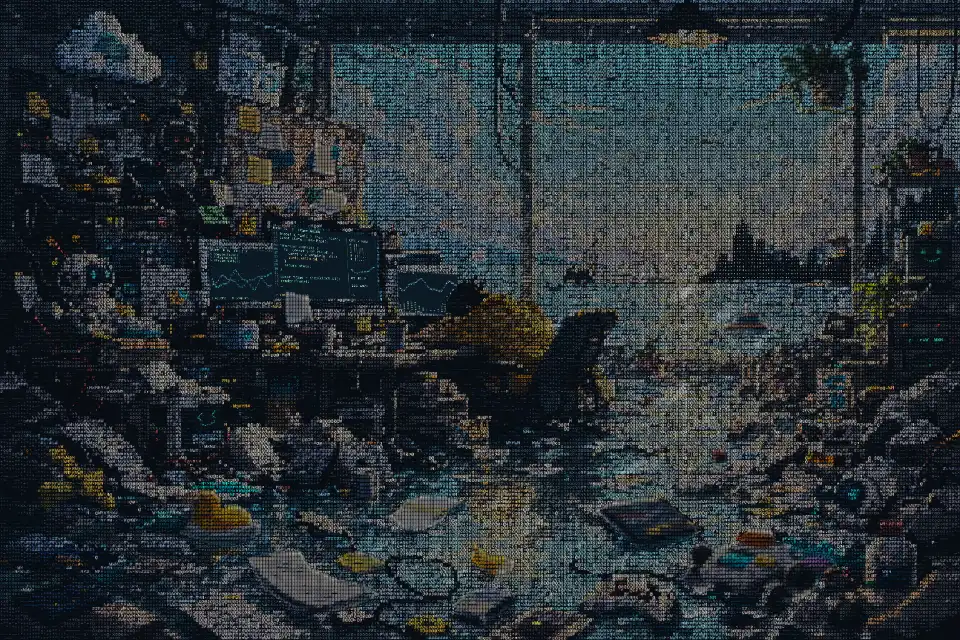
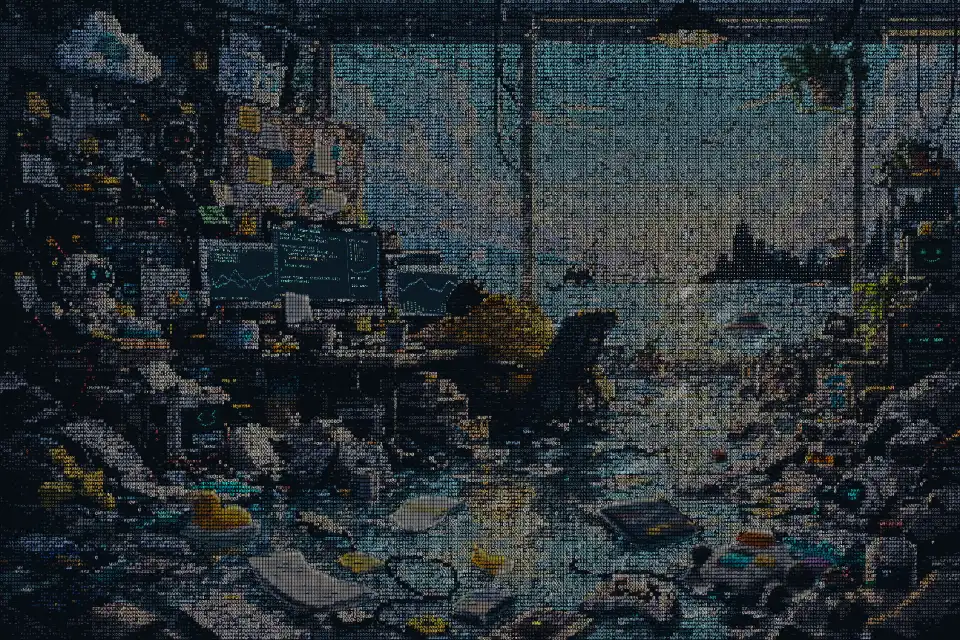
Leave stable negative space in dark room edges

diff --git a/ascii-renderer.js b/ascii-renderer.js
@@ -1,13 +1,13 @@
-import { scenePixelRatio } from './render-budget.js?v=20261111-space19';
+import { scenePixelRatio } from './render-budget.js?v=20261111-air20';
 import { createCanvas } from './canvas-factory.js?v=20261110-fps10';
 import { detailShapes, detailPoint, eyeOpening, cloudWindows, cloudSpeed, emitters } from './scene-details.js?v=20261110-depth6';
-import { GlyphAtlas } from './glyph-atlas.js?v=20261111-space19';
-import { screens, paintScreen } from './screen-content.js?v=20261111-space19';
+import { GlyphAtlas } from './glyph-atlas.js?v=20261111-air20';
+import { screens, paintScreen } from './screen-content.js?v=20261111-air20';
 import { faceLight, lampColor } from './scene-lights.js?v=20261110-depth6';
 import { quadPoint, drawQuad } from './scene-geometry.js?v=20261110-fps10';
-import { GlyphMotion } from './glyph-motion.js?v=20261111-space19';
-import { SpriteAtlas } from './sprite-atlas.js?v=20261111-space19';
-import { alternatives, prepareGlyph, glyphVariant } from './glyph-rhythm.js?v=20261111-space19';
+import { GlyphMotion } from './glyph-motion.js?v=20261111-air20';
+import { SpriteAtlas } from './sprite-atlas.js?v=20261111-air20';
+import { alternatives, prepareGlyph, glyphVariant } from './glyph-rhythm.js?v=20261111-air20';
 
 // Source-image coordinates keep motion, perspective and hit targets in agreement.
 export const birds = [
@@ -379,8 +379,20 @@ export class AsciiRenderer {
       // Keep the requested size bins, with smaller glyphs at those edges.
       const edgeSize=calmSize+(Math.min(calmSize,1.3)-calmSize)*smooth((contrast-45)/100);
       const size=isCity ? minFontSize : fontStep(edgeSize);
-      // Ten discrete sizes, with one occupied cell at every grid position.
-      const cell = { sx, sy, rgb, size,
+      // Open up the dark room edges, not the colorful sky or bright water.
+      // Featureless shadows may stay entirely empty; wider sampling protects
+      // nearby contours without limiting hole size. The mask is fixed for the
+      // scene, with a separate seed so remaining font sizes stay balanced.
+      const smoothness=1-smooth((contrast-18)/65);
+      const person=inside(sx,sy,personArea);
+      const darkness=1-smooth((light(rgb)-.1)/.24);
+      const sideWeight=1-smooth((sx-510)/220)+smooth((sx-1110)/220);
+      const protectedCell=isCity||cloudIndex>=0||Math.hypot(sx-1100,sy-375)<33;
+      const flatness=darkness>0&&!protectedCell?1-smooth((this.surfaceContrast(sx,sy,9)-10)/24):0;
+      const openness=Math.max(.3+sideWeight*.55,flatness*(.35+sideWeight*.65));
+      const chance=protectedCell?0:openness*darkness*smoothness*(person?.35:1);
+      const blank=hash(col+91,row+47)<chance;
+      const cell = { sx, sy, rgb, size, occupied:!blank,
         x: sx * this.scale + (seed - .5) * .2,
         y: sy * this.scale + (hash(row, col) - .5) * .2,
         seed, phase: seed * Math.PI * 2, glyph: glyph(rgb, seed), color: color(rgb),
@@ -389,14 +401,15 @@ export class AsciiRenderer {
       cell.glyphLayer=cloudIndex>=0?'cloud':isHem||isAmbient?'dynamic':'base';
       cell.water=isWater;
       this.cells.push(cell);
+      if(!cell.occupied)continue;
       if (cloudIndex>=0) {
         this.cloudCells.push({...cell,cloudIndex});
       }
       else if (isHem || isAmbient) this.dynamic.push(cell);
       else { cell.tile=this.palette.get(cell.glyph,cell.rgb); staticCells.push(cell); }
       if (isWater) {
-        // Water keeps a complete, fixed character bed. Moving light is added on
-        // top; no character leaves a hole at the edge of a moving region.
+        // Reflections share the retained water cells and leave the intentional
+        // spaces empty. Their layout never shifts with the ripple animation.
         this.water.push({ ...cell, glyphSource:cell, color: color(rgb.map((v, c) => Math.min(255, v * 1.15 + [52,59,62][c]))),
           sinA:Math.sin(sx*.052+sy*.083), cosA:Math.cos(sx*.052+sy*.083),
           sinB:Math.sin(sx*.023-sy*.037), cosB:Math.cos(sx*.023-sy*.037),
@@ -523,6 +536,15 @@ export class AsciiRenderer {
       for (let c=0;c<3;c++) rgb[c]+=p[i+c]*w;
     }
     return {rgb:rgb.map(v=>v/weight),contrast};
+  }
+  surfaceContrast(sx,sy,radius) {
+    const p=this.platePixels,x=Math.floor(sx),y=Math.floor(sy),center=(y*this.sourceW+x)*4;
+    let contrast=0;
+    for(let dy=-radius;dy<=radius;dy+=radius)for(let dx=-radius;dx<=radius;dx+=radius){
+      const i=(clamp(y+dy,0,this.sourceH-1)*this.sourceW+clamp(x+dx,0,this.sourceW-1))*4;
+      for(let c=0;c<3;c++)contrast=Math.max(contrast,Math.abs(p[i+c]-p[center+c]));
+    }
+    return contrast;
   }
   prepare(ctx) { ctx.font = `500 ${this.fontSize}px monospace`; ctx.textAlign = 'center'; ctx.textBaseline = 'middle'; }
   paint(ctx, cell, x, y, size, fill) {

diff --git a/index.html b/index.html
@@ -7,35 +7,35 @@
   <meta name="description" content="jaq/li 的个人博客：技术、生活与研究。" />
   <title>jaq/li</title>
   <link rel="icon" href="./assets/favicon.svg" type="image/svg+xml" />
-  <link rel="stylesheet" href="./styles.css?v=20261111-space19" />
-  <link rel="preload" href="./assets/scene-preview.webp?v=20261111-space19" as="image" fetchpriority="high" />
+  <link rel="stylesheet" href="./styles.css?v=20261111-air20" />
+  <link rel="preload" href="./assets/scene-preview.webp?v=20261111-air20" as="image" fetchpriority="high" />
   <link rel="preload" href="./assets/scene.webp?v=20261110-depth6" as="fetch" crossorigin="anonymous" fetchpriority="low" />
-  <link rel="modulepreload" href="./ascii-renderer.js?v=20261111-space19" />
-  <link rel="modulepreload" href="./scene-renderer.js?v=20261111-space19" />
-  <link rel="modulepreload" href="./flight-layer.js?v=20261111-space19" />
-  <link rel="modulepreload" href="./render-budget.js?v=20261111-space19" />
-  <link rel="modulepreload" href="./scene-layers.js?v=20261111-space19" />
-  <link rel="modulepreload" href="./scene-snapshot.js?v=20261111-space19" />
+  <link rel="modulepreload" href="./ascii-renderer.js?v=20261111-air20" />
+  <link rel="modulepreload" href="./scene-renderer.js?v=20261111-air20" />
+  <link rel="modulepreload" href="./flight-layer.js?v=20261111-air20" />
+  <link rel="modulepreload" href="./render-budget.js?v=20261111-air20" />
+  <link rel="modulepreload" href="./scene-layers.js?v=20261111-air20" />
+  <link rel="modulepreload" href="./scene-snapshot.js?v=20261111-air20" />
   <link rel="modulepreload" href="./canvas-factory.js?v=20261110-fps10" />
   <link rel="modulepreload" href="./site.config.js?v=20261110-flight11" />
   <link rel="modulepreload" href="./scene-loader.js?v=20261110-depth6" />
-  <link rel="modulepreload" href="./screen-content.js?v=20261111-space19" />
+  <link rel="modulepreload" href="./screen-content.js?v=20261111-air20" />
   <link rel="modulepreload" href="./scene-lights.js?v=20261110-depth6" />
-  <link rel="modulepreload" href="./navigation.js?v=20261111-space19" />
+  <link rel="modulepreload" href="./navigation.js?v=20261111-air20" />
   <link rel="modulepreload" href="./scene-details.js?v=20261110-depth6" />
-  <link rel="modulepreload" href="./glyph-atlas.js?v=20261111-space19" />
-  <link rel="modulepreload" href="./glyph-motion.js?v=20261111-space19" />
-  <link rel="modulepreload" href="./glyph-rhythm.js?v=20261111-space19" />
-  <link rel="modulepreload" href="./sprite-atlas.js?v=20261111-space19" />
+  <link rel="modulepreload" href="./glyph-atlas.js?v=20261111-air20" />
+  <link rel="modulepreload" href="./glyph-motion.js?v=20261111-air20" />
+  <link rel="modulepreload" href="./glyph-rhythm.js?v=20261111-air20" />
+  <link rel="modulepreload" href="./sprite-atlas.js?v=20261111-air20" />
   <link rel="modulepreload" href="./scene-geometry.js?v=20261110-fps10" />
   <link rel="modulepreload" href="./scene-floats.js?v=20261110-depth6" />
-  <script type="module" src="./app.js?v=20261111-space19"></script>
+  <script type="module" src="./app.js?v=20261111-air20"></script>
 </head>
 <body class="home">
   <main id="scene-viewport" class="scene-viewport" aria-label="可探索的海边工作室">
     <div id="scene-world" class="scene-world">
       <img id="scene-image" class="scene-image" alt="海边工作室：电脑屏幕通往技术博客，人物通往个人 CV。" />
-      <img id="scene-poster" class="scene-poster" src="./assets/scene-preview.webp?v=20261111-space19" fetchpriority="high" alt="" aria-hidden="true" />
+      <img id="scene-poster" class="scene-poster" src="./assets/scene-preview.webp?v=20261111-air20" fetchpriority="high" alt="" aria-hidden="true" />
       <canvas id="ascii-canvas" aria-hidden="true"></canvas>
       <div id="motion-layers" class="motion-layers" aria-hidden="true"></div>
       <div id="flight-layer" class="flight-layer" aria-hidden="true"></div>

diff --git a/glyph-motion.js b/glyph-motion.js
@@ -1,8 +1,8 @@
-import { glyphColor } from './glyph-atlas.js?v=20261111-space19';
-import { SpriteAtlas } from './sprite-atlas.js?v=20261111-space19';
+import { glyphColor } from './glyph-atlas.js?v=20261111-air20';
+import { SpriteAtlas } from './sprite-atlas.js?v=20261111-air20';
 import { createCanvas } from './canvas-factory.js?v=20261110-fps10';
 
-import { alternatives } from './glyph-rhythm.js?v=20261111-space19';
+import { alternatives } from './glyph-rhythm.js?v=20261111-air20';
 const random=i=>{const n=Math.sin(i*127.1+1729)*43758.5453;return n-Math.floor(n);};
 export const glyphUpdateLimit=12; // small blocks per draw, never queued behind input
 export const glyphPassSeconds=12;
@@ -30,7 +30,7 @@ export class GlyphMotion {
       const cells=[];
       for(let y=row;y<Math.min(row+blockSize,renderer.rows);y++)for(let x=col;x<Math.min(col+blockSize,renderer.columns);x++){
         const cell=renderer.cells[y*renderer.columns+x];
-        if(cell.glyphLayer!=='dynamic')cells.push(cell);
+        if(cell.occupied&&cell.glyphLayer!=='dynamic')cells.push(cell);
       }
       if(!cells.length)continue;
       const x=Math.floor(col*renderer.cellW-this.radiusX),y=Math.floor(row*renderer.cellH-this.radiusY);
@@ -47,7 +47,7 @@ export class GlyphMotion {
   *prepare(){
     // Bake both characters once; the atlas is immutable during animation.
     // This avoids uploading a recolored texture for every scattered update.
-    yield* this.palette.prepare(this.r.cells.filter(c=>c.glyphLayer!=='dynamic'),c=>glyphColor(c.rgb));
+    yield* this.palette.prepare(this.r.cells.filter(c=>c.occupied&&c.glyphLayer!=='dynamic'),c=>glyphColor(c.rgb));
   }
   update(time,extra=[],present){
     const dt=Math.max(0,Math.min(.1,time-this.time));this.time=time;
@@ -105,6 +105,7 @@ export class GlyphMotion {
     const top=Math.max(0,Math.floor((y-this.radiusY)/r.cellH)),bottom=Math.min(r.rows-1,Math.floor((y+h+this.radiusY)/r.cellH));
     for(let row=top;row<=bottom;row++)for(let col=left;col<=right;col++){
       const neighbor=r.cells[row*r.columns+col];
+      if(!neighbor.occupied)continue;
       if(!cloud&&neighbor.glyphLayer==='dynamic')dynamic.push(neighbor);
       if(neighbor.glyphLayer!==layer)continue;
       const nx=r.fontSize*neighbor.size*.45+pad,ny=r.fontSize*neighbor.size*.65+pad;

diff --git a/scene-renderer.js b/scene-renderer.js
@@ -1,6 +1,6 @@
-import { scenePixelRatio } from './render-budget.js?v=20261111-space19';
-import { SceneLayers } from './scene-layers.js?v=20261111-space19';
-import { AsciiRenderer } from './ascii-renderer.js?v=20261111-space19';
+import { scenePixelRatio } from './render-budget.js?v=20261111-air20';
+import { SceneLayers } from './scene-layers.js?v=20261111-air20';
+import { AsciiRenderer } from './ascii-renderer.js?v=20261111-air20';
 
 class WorkerRenderer {
   constructor(worker,canvas) {
@@ -52,7 +52,7 @@ class WorkerRenderer {
 // Start loading the worker/modules while the compressed scene downloads.
 export function prepareSceneRenderer(canvas){
   if(typeof Worker==='undefined'||typeof OffscreenCanvas==='undefined'||typeof createImageBitmap!=='function'||typeof canvas.transferControlToOffscreen!=='function')return null;
-  try{return new WorkerRenderer(new Worker(new URL('./scene-worker.js?v=20261111-space19',import.meta.url),{type:'module'}),canvas);}catch{return null;}
+  try{return new WorkerRenderer(new Worker(new URL('./scene-worker.js?v=20261111-air20',import.meta.url),{type:'module'}),canvas);}catch{return null;}
 }
 
 export async function createSceneRenderer(image,canvas,onProgress,prepared=prepareSceneRenderer(canvas)) {

diff --git a/app.js b/app.js
@@ -1,10 +1,10 @@
-import { scenePixelRatio, sceneFrameInterval } from './render-budget.js?v=20261111-space19';
+import { scenePixelRatio, sceneFrameInterval } from './render-budget.js?v=20261111-air20';
 import { site } from './site.config.js?v=20261110-flight11';
-import { FlightLayer } from './flight-layer.js?v=20261111-space19';
+import { FlightLayer } from './flight-layer.js?v=20261111-air20';
 import { detailShapes, detailPoint } from './scene-details.js?v=20261110-depth6';
-import { createSceneRenderer, prepareSceneRenderer } from './scene-renderer.js?v=20261111-space19';
+import { createSceneRenderer, prepareSceneRenderer } from './scene-renderer.js?v=20261111-air20';
 import { loadSceneImage } from './scene-loader.js?v=20261110-depth6';
-import './navigation.js?v=20261111-space19';
+import './navigation.js?v=20261111-air20';
 
 const viewport = document.querySelector('#scene-viewport');
 const world = document.querySelector('#scene-world');

diff --git a/layered-scene.js b/layered-scene.js
@@ -1,7 +1,7 @@
-import { waterSampleInterval } from './render-budget.js?v=20261111-space19';
-import { paintScreen } from './screen-content.js?v=20261111-space19';
-import { fontStep, fontIncrement } from './ascii-renderer.js?v=20261111-space19';
-import { glyphVariant } from './glyph-rhythm.js?v=20261111-space19';
+import { waterSampleInterval } from './render-budget.js?v=20261111-air20';
+import { paintScreen } from './screen-content.js?v=20261111-air20';
+import { fontStep, fontIncrement } from './ascii-renderer.js?v=20261111-air20';
+import { glyphVariant } from './glyph-rhythm.js?v=20261111-air20';
 
 function screenMatrix(quad,w,h,scale){
   const [[x0,y0],[x1,y1],[x2,y2],[x3,y3]]=quad,dx1=x1-x2,dx2=x3-x2,dx3=x0-x1+x2-x3,dy1=y1-y2,dy2=y3-y2,dy3=y0-y1+y2-y3;

diff --git a/flight-layer.js b/flight-layer.js
@@ -1,6 +1,6 @@
-import { birdPose, minFontSize } from './ascii-renderer.js?v=20261111-space19';
-import { SpriteAtlas } from './sprite-atlas.js?v=20261111-space19';
-import { glyphVariant } from './glyph-rhythm.js?v=20261111-space19';
+import { birdPose, minFontSize } from './ascii-renderer.js?v=20261111-air20';
+import { SpriteAtlas } from './sprite-atlas.js?v=20261111-air20';
+import { glyphVariant } from './glyph-rhythm.js?v=20261111-air20';
 const clamp=(v,lo=0,hi=1)=>Math.max(lo,Math.min(hi,v));
 
 // Tiny transparent bird canvases move at display cadence. Their transforms do

diff --git a/sprite-atlas.js b/sprite-atlas.js
@@ -1,5 +1,5 @@
 import { createCanvas } from './canvas-factory.js?v=20261110-fps10';
-import { alternatives, prepareGlyph } from './glyph-rhythm.js?v=20261111-space19';
+import { alternatives, prepareGlyph } from './glyph-rhythm.js?v=20261111-air20';
 
 // Two narrow monospace letters fit in approximately the old square tile area.
 // Keep the original subpixel phase, color and vertical raster resolution.

diff --git a/scene-worker.js b/scene-worker.js
@@ -1,5 +1,5 @@
-import { AsciiRenderer } from './ascii-renderer.js?v=20261111-space19';
-import { LayeredScene } from './layered-scene.js?v=20261111-space19';
+import { AsciiRenderer } from './ascii-renderer.js?v=20261111-air20';
+import { LayeredScene } from './layered-scene.js?v=20261111-air20';
 let renderer,display,layers,revision=0;
 let queue=Promise.resolve();
 self.onmessage=({data})=>{

diff --git a/scene-layers.js b/scene-layers.js
@@ -1,4 +1,4 @@
-import { waterSampleInterval } from './render-budget.js?v=20261111-space19';
+import { waterSampleInterval } from './render-budget.js?v=20261111-air20';
 import { detailPoint } from './scene-details.js?v=20261110-depth6';
 
 // The browser composites small canvases in their original image coordinates.

diff --git a/navigation.js b/navigation.js
@@ -1,4 +1,4 @@
-import { drawSceneLayers } from './scene-snapshot.js?v=20261111-space19';
+import { drawSceneLayers } from './scene-snapshot.js?v=20261111-air20';
 const reducedMotion = matchMedia('(prefers-reduced-motion: reduce)');
 let navigating = false;
 let overlay;

diff --git a/docs/scene-motion.md b/docs/scene-motion.md
@@ -4,8 +4,9 @@
 
 | 元素 | 实现与边界 |
 | --- | --- |
-| 字号层次 | 全景采用一套较疏网格，按约 4.6 px 横向间距安排，限制在 200–360 列；字体基准按画面宽度独立确定。仍为 0.60–1.50 十档、每 0.10 一档，基准权重依次为 0.5%、1%、2%、4%、8%、22%、30%、23%、7%、2.5%。天空仅轻度向 1.20 收敛，轮廓处将超过 1.30 的字符适度压小。1920×1080 窗口的可见背景约 56,880 字符、中心间距约 5.33×6.81 CSS px；1.10–1.30 占约 77.9%，1.30–1.50 占约 32.2%。海鸥和城市始终为 0.60。 |
-| 全局字形 | 全部背景字符参加换字，包含水面底层、人物、城市、建筑、窗框和太阳。每 12 秒遍历全景，交错替换每个小块的一半字符，约 24 秒覆盖全部字符；三次分散随机后穿插一次带宽范围随机延迟的自上而下推进。只换相近明暗的字形，保持 RGB、坐标和字号；不叠加亮度/颜色扫描带。每帧最多 12 个小块，慢设备延长周期，不积压绘制任务。两套字形在初始化时缓存，动画中图集不增长；每批补绘 16 个小块，再呈现像素及头发遮挡，保留相交笔画。 |
+| 字号层次 | 全景采用一套较疏网格，按约 4.6 px 横向间距安排，限制在 200–360 列；字体基准按画面宽度独立确定。仍为 0.60–1.50 十档、每 0.10 一档，基准权重依次为 0.5%、1%、2%、4%、8%、22%、30%、23%、7%、2.5%。天空仅轻度向 1.20 收敛，轮廓处将超过 1.30 的字符适度压小。1920×1080 窗口有 56,880 个背景采样位置，其中保留约 51,704 个字符；中心间距约 5.33×6.81 CSS px。海鸥和城市始终为 0.60。 |
+| 暗部留白 | 主要疏开左右两侧深色背景，随亮度和局部细节平滑过渡；检查原图周围 9 px 的颜色差，无细节的暗部允许整片空出，不限制空洞大小。天空、云、亮部、远景城市与高对比轮廓保留字符，人物暗部只轻度稀疏。空位固定，不随换字、云或水波反复填满；颜色与字形精度不变。 |
+| 全局字形 | 全部保留的背景字符参加换字，包含水面底层、人物、城市、建筑、窗框和太阳。每 12 秒遍历全景，交错替换每个小块的一半字符，约 24 秒覆盖全部保留的字符；三次分散随机后穿插一次带宽范围随机延迟的自上而下推进。只换相近明暗的字形，保持 RGB、坐标和字号；不叠加亮度/颜色扫描带。每帧最多 12 个小块，慢设备延长周期，不积压绘制任务。两套字形在初始化时缓存，动画中图集不增长；每批补绘 16 个小块，再呈现像素及头发遮挡，保留相交笔画。 |
 | 物体字形 | 海鸥、纸张、叶片、衣角、眼睛、灯光、鸭子、船和所有漂浮物按约 6 秒周期逐字错开变化。漂浮纹理按物件错开、最多 4 Hz 刷新，位置保持原来的独立合成动画；表情灯光的字符以 2 Hz 采样，眨眼和表情动作仍保留。显示屏的暗色字符底纹以 2 Hz 缓存，波形符号与读数持续更新。 |
 | 远景城市 | 与天空、室内和人物共用同一细网格，不在楼体轮廓内裁切或叠加独立网格。边缘采样保留楼顶、窗户及与天空的明暗对比；城市不随云移动；按建筑轮廓固定 0.60 档，退出字号呼吸和水面叠加，保留窗框、前景设备的原有字号。 |
 | 三块电脑屏幕 | 保留更细的 ASCII 文本而不二次降采样。四角投影跟随实际显示面的斜向与纵深。中间屏幕覆盖代码、CPU/MEM 侧栏、波形、帧数和底部状态。左屏顶部进一步覆盖约 1–2 层浅色白边，双通道波形与日志按新高度排布。右屏保持完整平行四边形，向右下延伸到头部后方，以贴合发梢的独立轮廓遮挡，保留外边框。波形与屏幕内容随局部绘制更新，目标 60 Hz；CSS 承担四角透视，复用文字纹理，四边羽化。 |
@@ -52,3 +53,7 @@ flow18 与已发布 type17 的同机串行高分屏采样（1440×900、DPR 2、
 2026-11-11 的 space19 将字号与字符间距分开控制，并把多数普通区域调整到 1.10–1.30 档。1920×1080 窗口可见背景字符由 100,829 降为 56,880（约少 44%），中心间距由 4.00×5.12 增至 5.33×6.81 CSS px；1.10–1.30 档合计 77.88%，1.30–1.50 合计 32.16%。字体范围仍为 0.60–1.50、每 0.10 一档，海鸥与城市保持 0.60；保留原有 DPI、取色与全局/局部动态。实图对照、间距与分布约束、城市轮廓、屏幕细节、高 DPI 画质、全景换字、移动端与入口、局部分层及加载测试通过。
 
 space19 与 flow18 同机串行 1440×900、DPR 2、6 秒采样：局部 Worker 18.1 → 33.1 fps，水波合成 36.0 → 31.3 fps，绘图缓冲 132.1 → 125.5 MiB；局部绘制平均耗时 31.55 → 15.59 ms。帧率随设备和采样波动。预览 170,344 字节，场景源图片仍为 374,938 字节；1.6 Mbps / 150 ms 延迟 / 4 倍 CPU 限速下，预览约 2.46 秒、动画约 4.97 秒，最长初始化主线程任务约 112 ms。
+
+2026-11-11 的 air20 在原网格上增加暗部留白：1920×1080 可见背景 56,880 → 51,704 个字符，约 9.1% 的位置留空，集中在左右深色区域；天空字符全部保留，明亮水面、城市轮廓与十档字号不变。留白按原图亮度和局部细节一次计算，无细节的暗部允许连片空出；换字与水波跳过空位，不新增逐帧取色或遮罩计算。
+
+本次验证覆盖稳定空位、连续暗部空区、天空与亮部完整保留、城市/高对比轮廓、全部保留字符的轮换、实际漂浮物换字与暂停，以及高 DPI 画质、分层、移动端、入口与加载。与 space19 同机串行 1440×900、DPR 2、6 秒采样：局部 Worker 24.5 → 33.1 fps，水波合成 31.1 → 31.7 fps，绘图缓冲 125.5 → 125.2 MiB（非浏览器总内存）；帧率随设备和采样波动。预览为 168,598 字节；1.6 Mbps / 150 ms 延迟 / 4 倍 CPU 限速下，预览约 2.37 秒、动画约 4.76 秒，最长初始化主线程任务约 102 ms。
